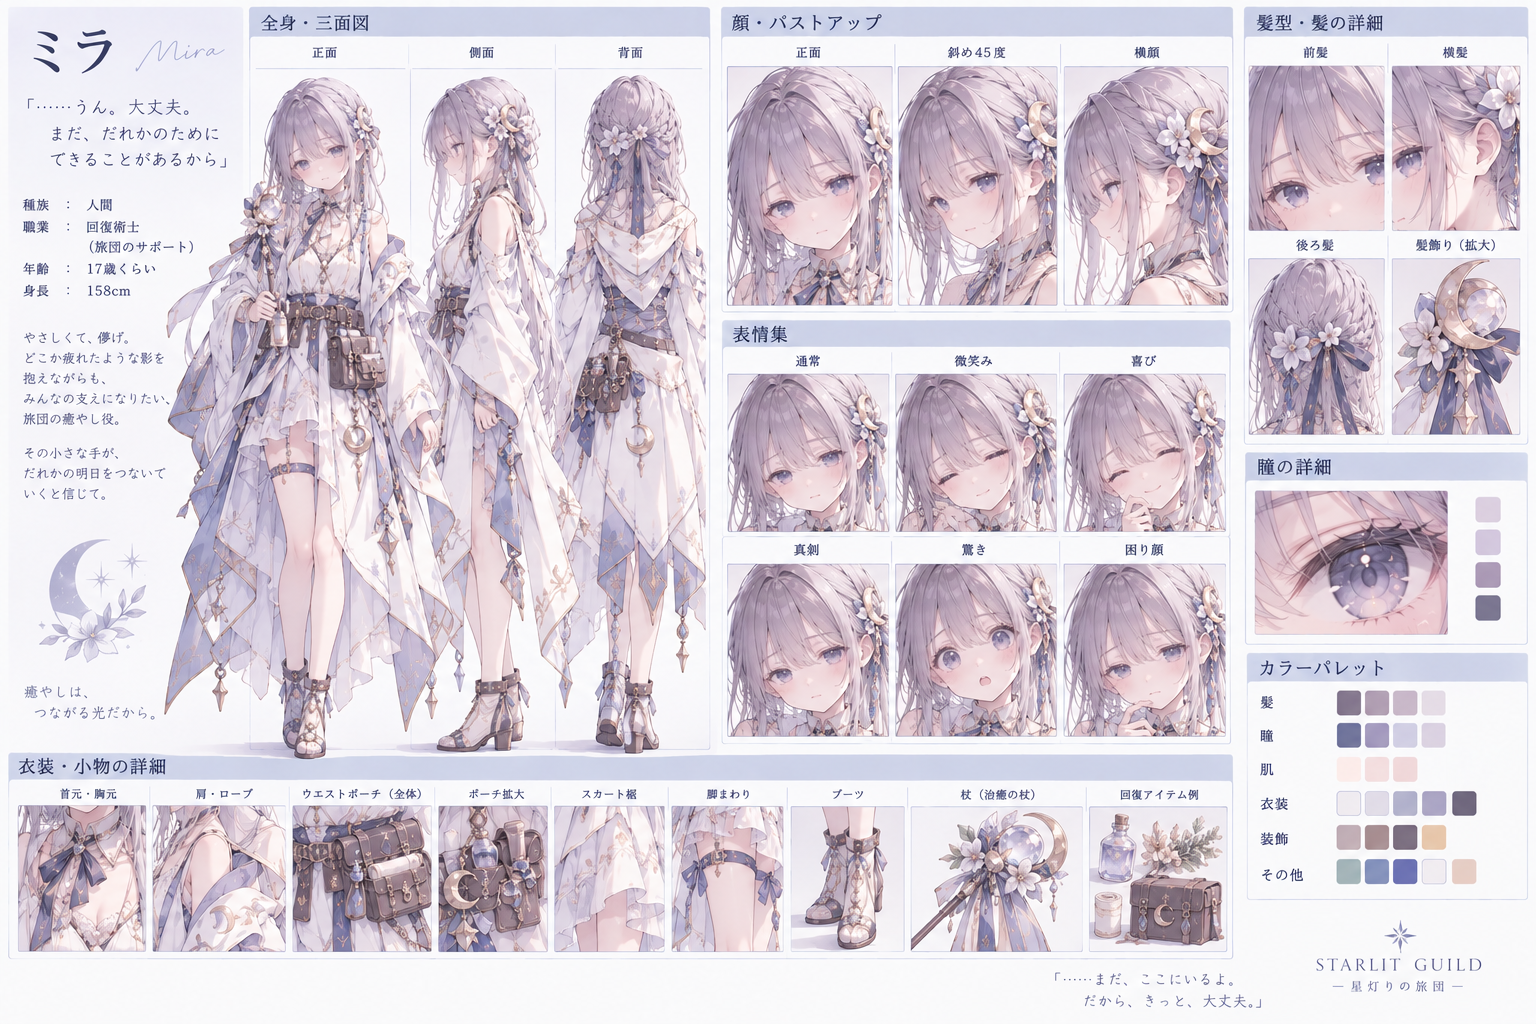
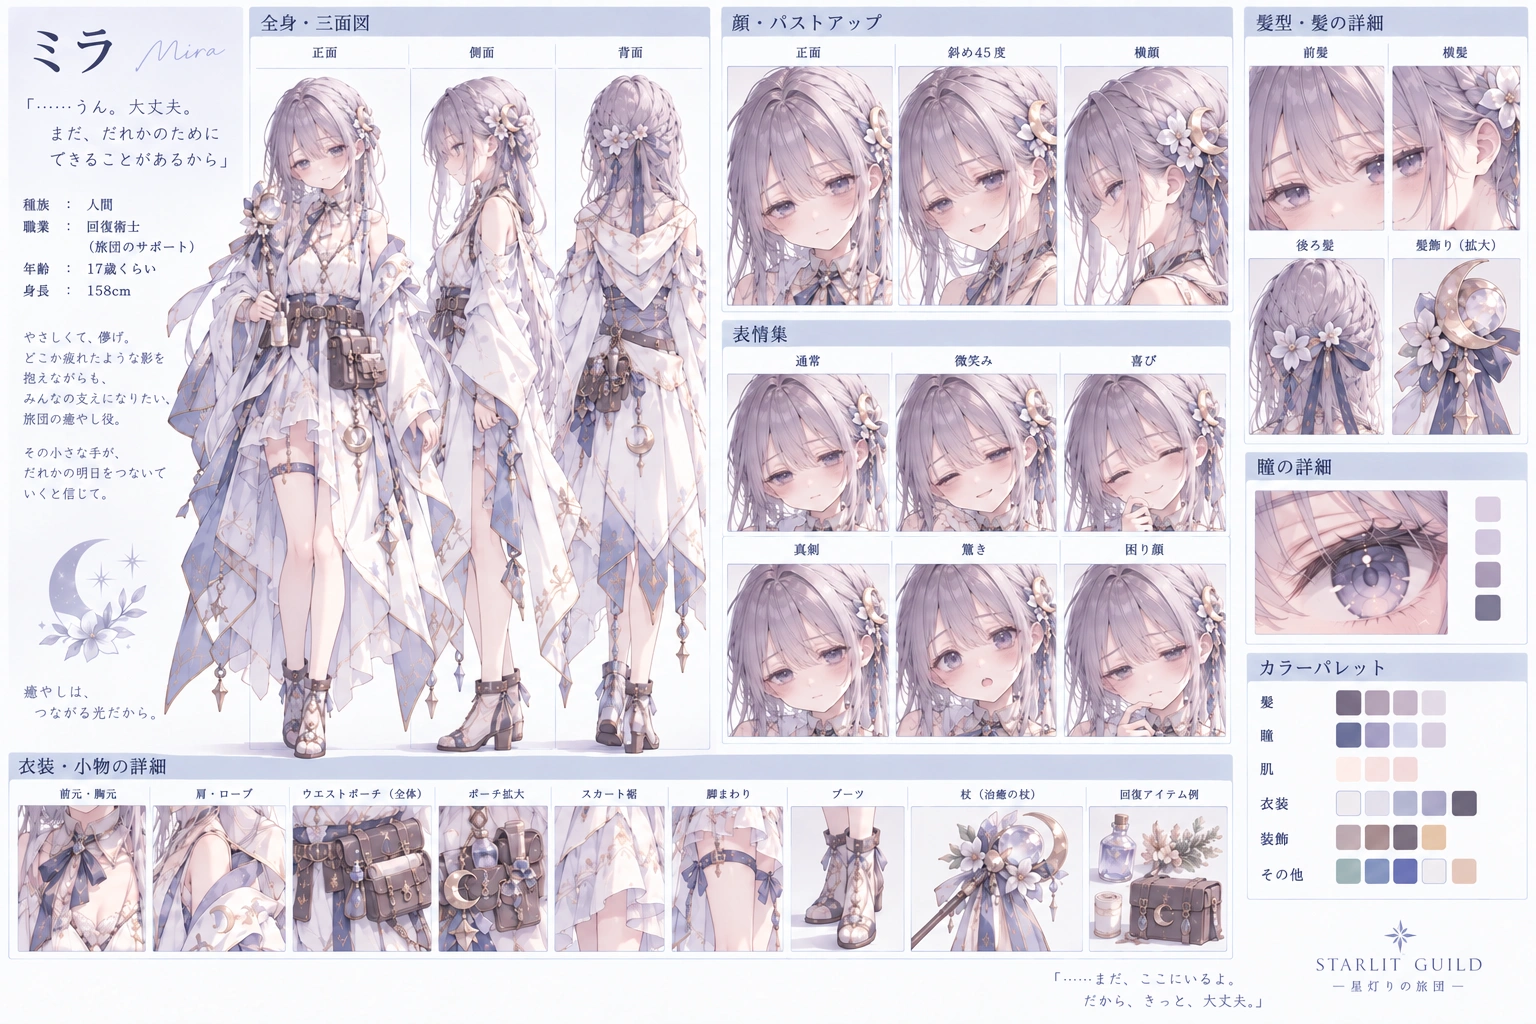
docs: reflect Mira's tired caring expression in reference sheet

diff --git a/docs/characters/mira.md b/docs/characters/mira.md
@@ -76,6 +76,10 @@
 
 GPT Imageで作成した外見・衣装の制作参考。薄紫の髪、儚げで疲労をにじませながら頑張る表情、治癒師らしい軽いローブ、治療用の薬や道具を収めるウエストポーチ、月のモチーフを主な方向性として扱う。
 
+第二章2-8の[服薬の一枚絵](../../public/stories/medicine-delivered.png)で採用した疲れ顔を、シートの表情にも反映した。重い上まぶた、目の下の柔らかな灰紫の影、血色の薄さを土台にし、疲れていても患者に向ける優しい目と微笑みを残す。普段にも疲れがにじむが、寝不足の強い場面では目元の影とまぶたの重さを強める。喜び・驚き・真剣さは描き分け、どの表情も眠そうな同じ顔にはしない。肩の見えるローブ、髪飾り、薬のポーチなどの衣装設定は維持する。
+
+この更新は制作参考のシートと外見指針の変更。既存のゲーム内会話アイコンや冒険アニメーションを一括で差し替えたものではない。制作条件は [シート更新記録](mira-reference-sheet-generation.json) を参照。
+
 シート内に自動生成された年齢・身長・台詞などの文字情報は、確定設定として扱わない。人物設定の正本は本ファイルと関連資料を優先する。
 
 冒険画面は、このシートを参照した `public/animations/mira-v1.png` を使用する。髪飾り、月の杖、軽いローブとウエストポーチを反映し、歩行・攻撃・回復・待機・被弾の動作を描き分けている。会話の表情画像や既存スチルとは別の素材で、制作条件は [動作画像の制作記録](../hero-animation-art.md) を参照。
